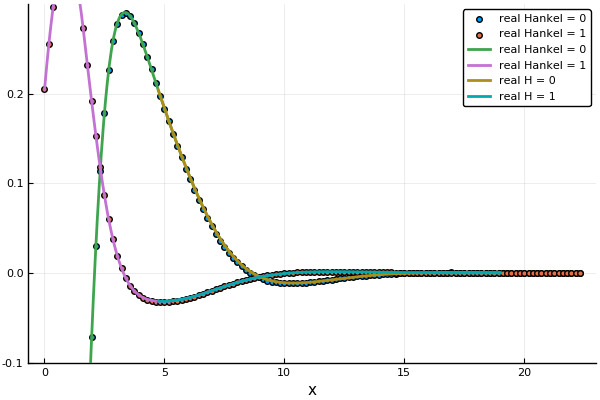
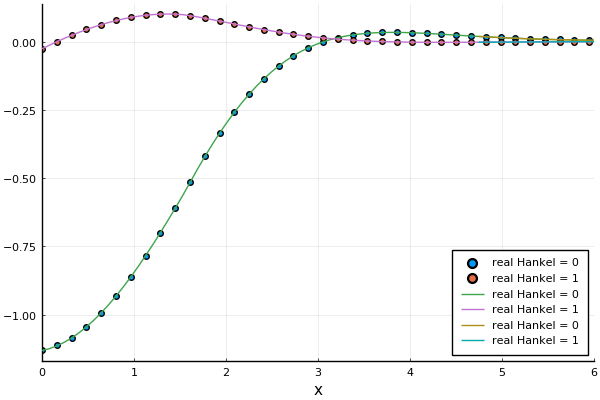
renaming and cleaning up

diff --git a/docs/src/examples/matched_method/README.md b/docs/src/examples/matched_method/README.md
@@ -1,5 +1,7 @@
 # A numerical matching method
 Both of these methods calculate the ensemble average wave in a particulate material. To do so, we need to specify the geometry of the material, as this ultimately determines the fields. We choose the simplest case which is a halfspace x>0 filled with particles.
+
+## Calculate the effective wavemodes
 ```julia
 using EffectiveWaves
 
@@ -13,7 +15,8 @@ using EffectiveWaves
 
     # a species of circular particles
     ms = MultipleScattering # in case you load a package which has it's own definition of Circle.
-    specie = Specie(Particle(medium, ms.Circle(0.8)); volume_fraction = 0.2)
+    particle_medium = Acoustic(spatial_dim; ρ=0.1, c=0.1)
+    specie = Specie(Particle(particle_medium, ms.Circle(0.8)); volume_fraction = 0.25)
 
     # a halfspace with outward normal [-1.0,0.0] and filled with specie
     material = Material(Halfspace([-1.0,0.0]), specie)
@@ -22,38 +25,52 @@ using EffectiveWaves
     θin = 0.3 # angle made between incident wave direction and the material boundary
 
     # calculate the 4 effective waves with the smallest attenuation
-    wave_effs = WaveModes(ω, medium, specie;
-          num_wavenumbers=5,
+    wave_effs = WaveModes(ω, source, material;
+          num_wavenumbers = 5,
           θin = θin,
           extinction_rescale = false
     )
-    # plot(wave_effs[1:5])
+
+    # using Plots
+    # plot(wave_effs[1:5], markeralpha = 1.0)
     # savefig("wave_effs.png")
 ```
 ![Many effective wavenumbers](wave_effs.png)
 
-To determine the amplitude of these effective waves we used the newly developed matched method.
+## Determine the amplitude/eignvectors of the wavemodes
+
+To determine the amplitude of these effective waves we use the Matching method.
 ```julia
-    match_wave = MatchPlaneWaveMode(ω, medium, specie;
+    match_wave = MatchPlaneWaveMode(ω, source, material;
       θin = θin,
       wave_effs = wave_effs[1:5],
       max_size=80)
 
     # the error of the match is used as a proxy to determine if the method converged. That is, the match_error is the difference between a sum of the effective waves and a discrete solution.
-    match_error(match_wave)
+    match_error(match_wave, material.shape) < 1e-5
 
-    # plot(match_wave, ylim=(-0.1,0.3), xlab = "x", hankel_indexes=0:1)
+    # plot(match_wave, ylim = (-0.01,0.04), xlim = (2.0,10.0),
+    #     xlab = "x", hankel_indexes=0:1
+    # )
     # savefig("match_wave.png")
 ```
 ![The matched wave field](match_wave.png)
 
 We can compare this results against a purely numerical method, which requires a much larger mesh.
 ```julia
-  discrete_wave = DiscretePlaneWaveMode(ω, medium, specie; θin = θin, max_size=700)
+  discrete_wave = DiscretePlaneWaveMode(ω, source, material; θin = θin, max_size=700)
 
-  plot(discrete_wave, ylim=(-0.1,0.3), xlab = "x", hankel_indexes=0:1)
-  plot!(match_wave, seriestype=:line, match_region=false, hankel_indexes=0:1)
+  plot(discrete_wave, xlab = "x", hankel_indexes=0:1)
+  plot!(match_wave, seriestype=:line, xlims = (0.0,6.0),
+      match_region=false, hankel_indexes=0:1
+  )
   savefig("compare_match_wave.png")
 ```
 The two fields perfectly overlap, as the matched method is an exact method. Below the line is from the matched method, while the scatter points are from the purely numerical method.
 ![Compare matched and discrete field](compare_match_wave.png)
+
+## Calculate the reflection coefficient
+```julia
+
+R = reflection_coefficient(ω, match_wave, source, material)
+```
